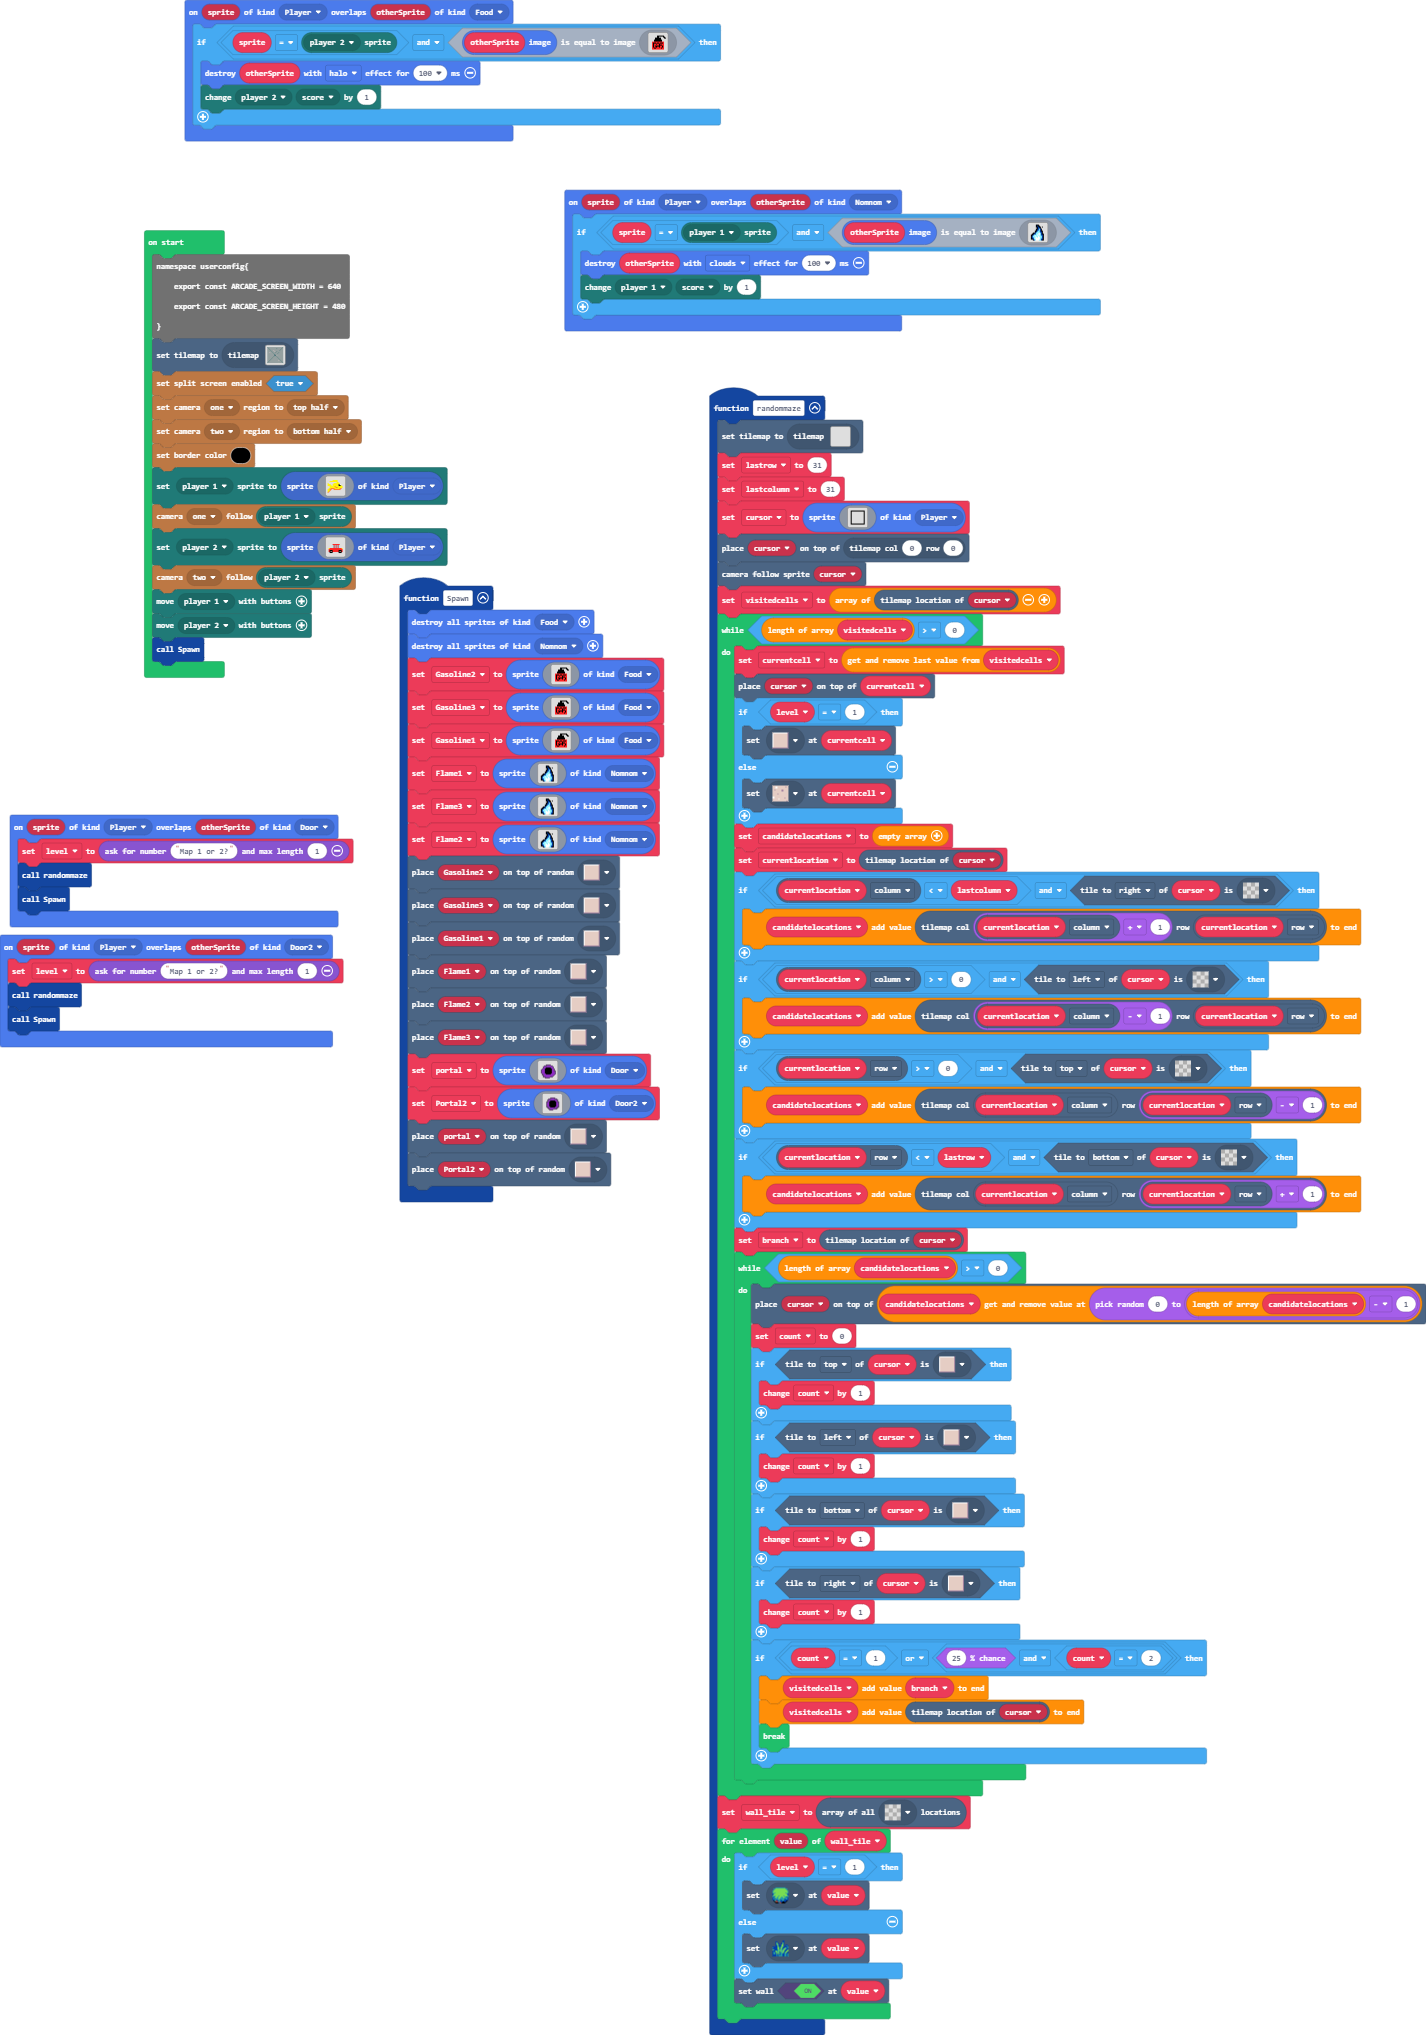
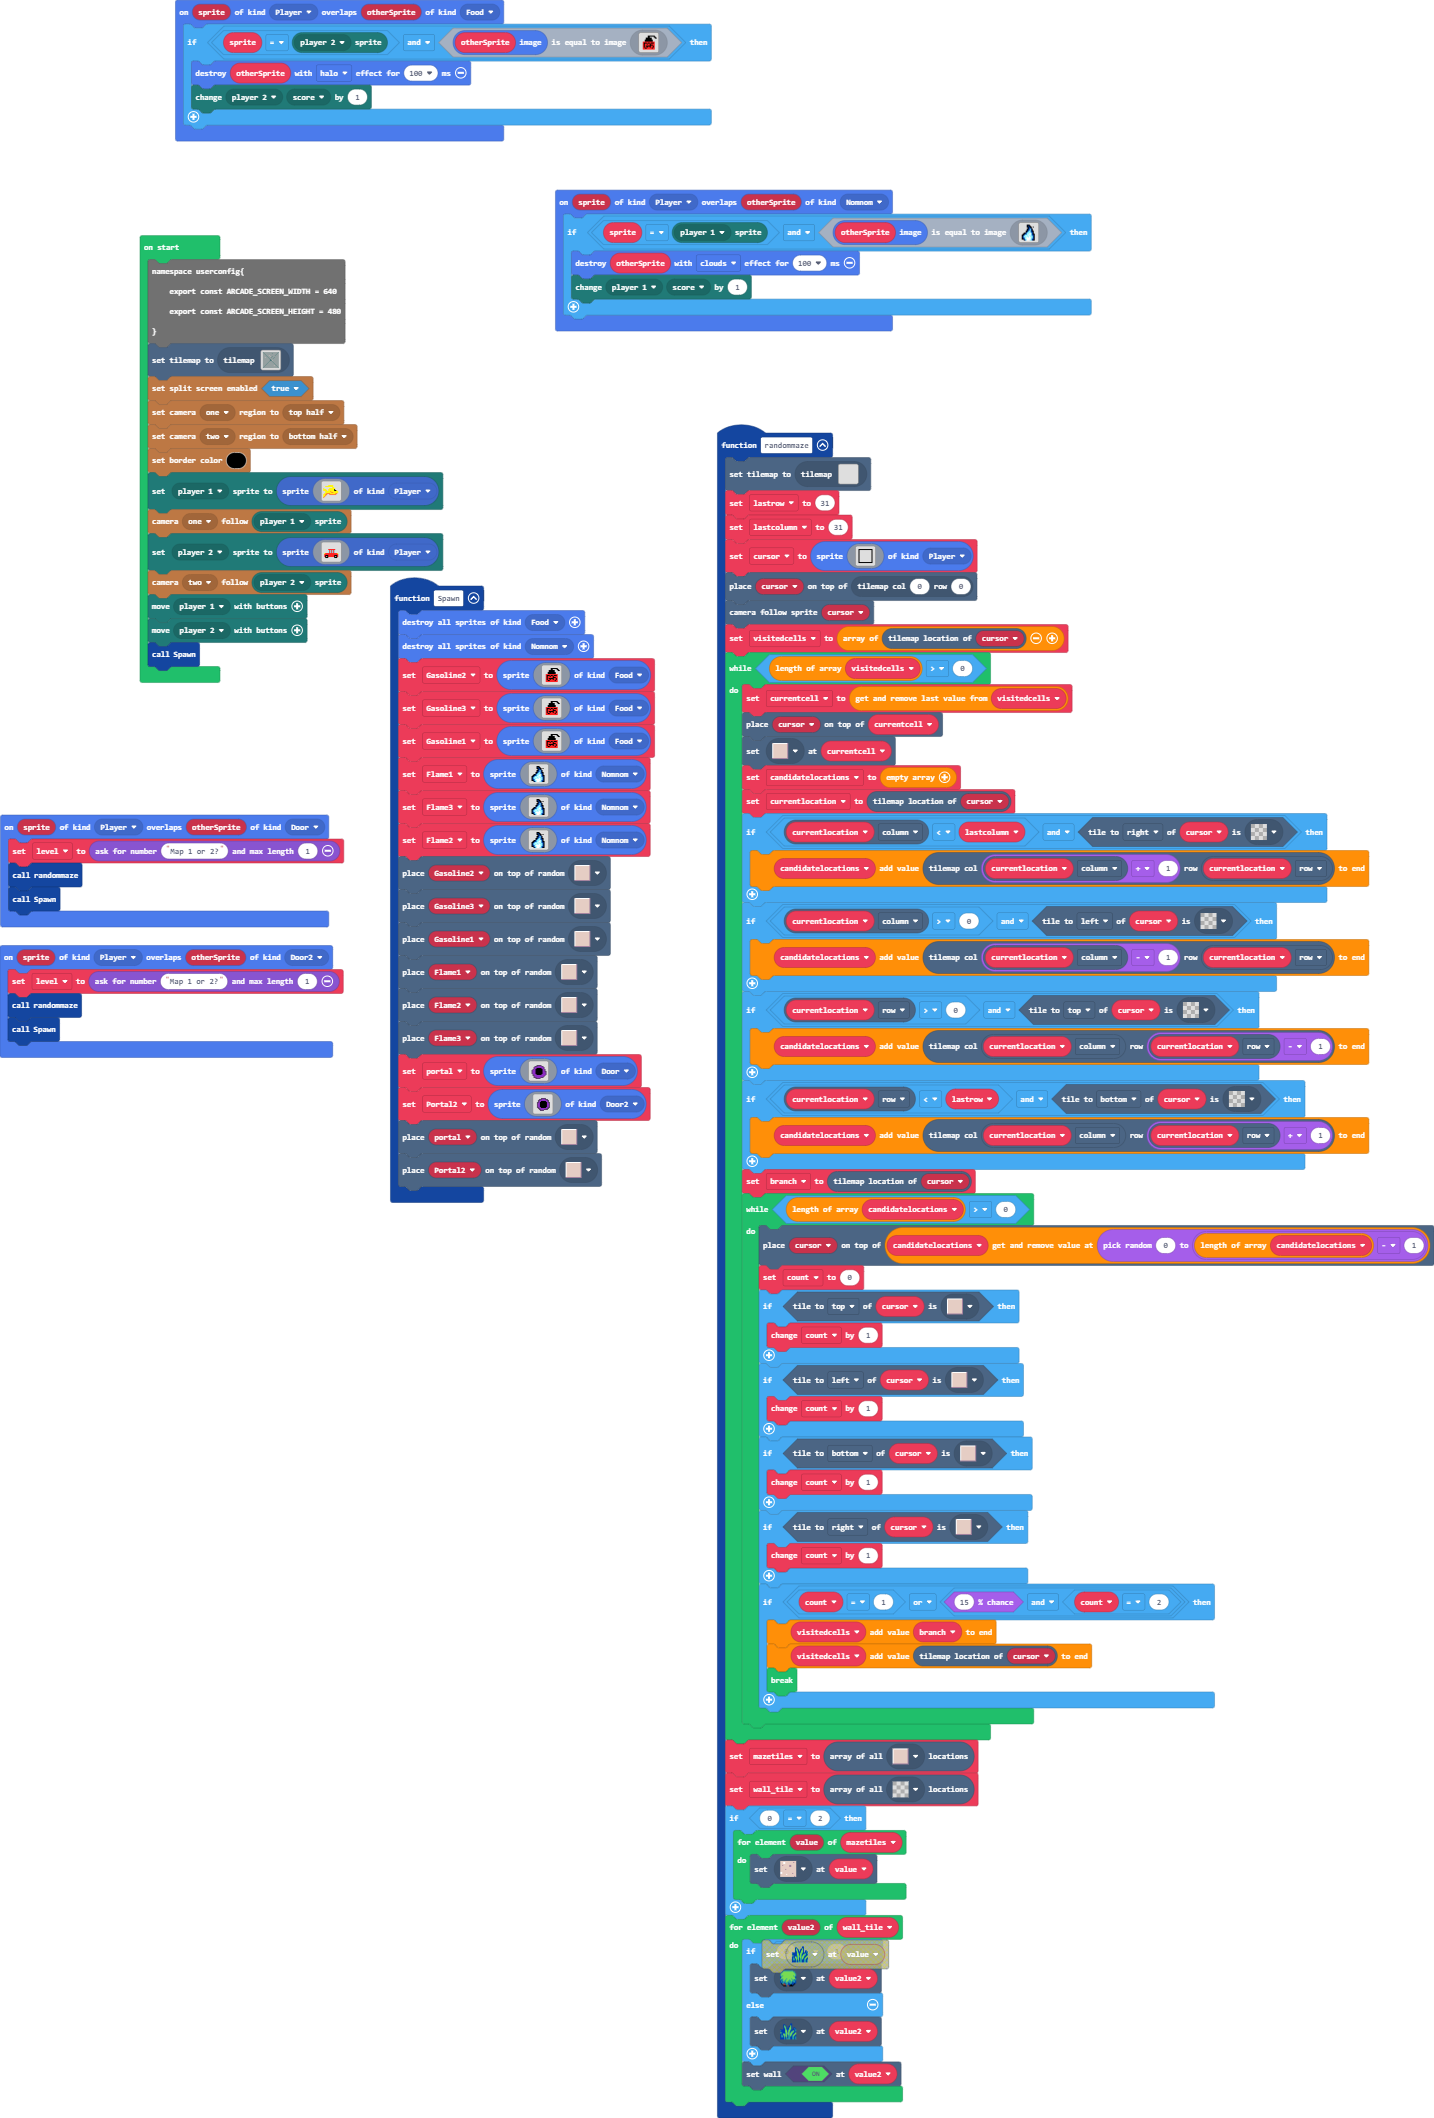
the real one

Changed region(s): [[0.0, 0.0, 1.0, 1.0]]

diff --git a/tilemap.g.ts b/tilemap.g.ts
@@ -205,6 +205,44 @@ namespace myTiles {
 . . . . . . . . . . . . . . . . 
 . . . . . . . . . . . . . . . . 
 `, [myTiles.transparency16,sprites.castle.tilePath5,sprites.swamp.swampTile1], TileScale.Sixteen);
+            case "level9":
+            case "level9":return tiles.createTilemap(hex`1000100000000000000000000000000000000000000000000000000000000000000000000000000000000000000000000000000000000000000000000000000000000000000000000000000000000000000000000000000000000000000000000000000000000000000000000000000000000000000000000000000000000000000000000000000000000000000000000000000000000000000000000000000000000000000000000000000000000000000000000000000000000000000000000000000000000000000000000000000000000000000000000000000000000000000000000000000000000000000000000000000000000000000000000000000000000000`, img`
+. . . . . . . . . . . . . . . . 
+. . . . . . . . . . . . . . . . 
+. . . . . . . . . . . . . . . . 
+. . . . . . . . . . . . . . . . 
+. . . . . . . . . . . . . . . . 
+. . . . . . . . . . . . . . . . 
+. . . . . . . . . . . . . . . . 
+. . . . . . . . . . . . . . . . 
+. . . . . . . . . . . . . . . . 
+. . . . . . . . . . . . . . . . 
+. . . . . . . . . . . . . . . . 
+. . . . . . . . . . . . . . . . 
+. . . . . . . . . . . . . . . . 
+. . . . . . . . . . . . . . . . 
+. . . . . . . . . . . . . . . . 
+. . . . . . . . . . . . . . . . 
+`, [myTiles.transparency16], TileScale.Sixteen);
+            case "level10":
+            case "level10":return tiles.createTilemap(hex`1000100000000000000000000000000000000000000000000000000000000000000000000000000000000000000000000000000000000000000000000000000000000000000000000000000000000000000000000000000000000000000000000000000000000000000000000000000000000000000000000000000000000000000000000000000000000000000000000000000000000000000000000000000000000000000000000000000000000000000000000000000000000000000000000000000000000000000000000000000000000000000000000000000000000000000000000000000000000000000000000000000000000000000000000000000000000000`, img`
+. . . . . . . . . . . . . . . . 
+. . . . . . . . . . . . . . . . 
+. . . . . . . . . . . . . . . . 
+. . . . . . . . . . . . . . . . 
+. . . . . . . . . . . . . . . . 
+. . . . . . . . . . . . . . . . 
+. . . . . . . . . . . . . . . . 
+. . . . . . . . . . . . . . . . 
+. . . . . . . . . . . . . . . . 
+. . . . . . . . . . . . . . . . 
+. . . . . . . . . . . . . . . . 
+. . . . . . . . . . . . . . . . 
+. . . . . . . . . . . . . . . . 
+. . . . . . . . . . . . . . . . 
+. . . . . . . . . . . . . . . . 
+. . . . . . . . . . . . . . . . 
+`, [myTiles.transparency16], TileScale.Sixteen);
         }
         return null;
     })

diff --git a/main.ts b/main.ts
@@ -31,11 +31,7 @@ function randommaze () {
     while (visitedcells.length > 0) {
         currentcell = visitedcells.pop()
         tiles.placeOnTile(cursor, currentcell)
-        if (level == 1) {
-            tiles.setTileAt(currentcell, sprites.dungeon.floorLight2)
-        } else {
-            tiles.setTileAt(currentcell, sprites.castle.tilePath5)
-        }
+        tiles.setTileAt(currentcell, sprites.dungeon.floorLight2)
         candidatelocations = []
         currentlocation = cursor.tilemapLocation()
         if (currentlocation.column < lastcolumn && cursor.tileKindAt(TileDirection.Right, assets.tile`transparency16`)) {
@@ -66,21 +62,27 @@ function randommaze () {
             if (cursor.tileKindAt(TileDirection.Right, sprites.dungeon.floorLight2)) {
                 count += 1
             }
-            if (count == 1 || Math.percentChance(25) && count == 2) {
+            if (count == 1 || Math.percentChance(15) && count == 2) {
                 visitedcells.push(branch)
                 visitedcells.push(cursor.tilemapLocation())
                 break;
             }
         }
     }
+    mazetiles = tiles.getTilesByType(sprites.dungeon.floorLight2)
     wall_tile = tiles.getTilesByType(assets.tile`transparency16`)
-    for (let value of wall_tile) {
-        if (level == 1) {
-            tiles.setTileAt(value, sprites.builtin.forestTiles0)
-        } else {
-            tiles.setTileAt(value, sprites.swamp.swampTile1)
+    if ((0 as any) == (2 as any)) {
+        for (let value of mazetiles) {
+            tiles.setTileAt(value, sprites.castle.tilePath5)
         }
-        tiles.setWallAt(value, true)
+    }
+    for (let value2 of wall_tile) {
+        if ((0 as any) == (1 as any)) {
+            tiles.setTileAt(value2, sprites.builtin.forestTiles0)
+        } else {
+            tiles.setTileAt(value2, sprites.swamp.swampTile1)
+        }
+        tiles.setWallAt(value2, true)
     }
 }
 sprites.onOverlap(SpriteKind.Player, SpriteKind.Door, function (sprite, otherSprite) {
@@ -235,12 +237,13 @@ let Flame1: Sprite = null
 let Gasoline1: Sprite = null
 let Gasoline3: Sprite = null
 let Gasoline2: Sprite = null
+let level = 0
 let wall_tile: tiles.Location[] = []
+let mazetiles: tiles.Location[] = []
 let count = 0
 let branch: tiles.Location = null
 let currentlocation: tiles.Location = null
 let candidatelocations: tiles.Location[] = []
-let level = 0
 let currentcell: tiles.Location = null
 let visitedcells: tiles.Location[] = []
 let cursor: Sprite = null
